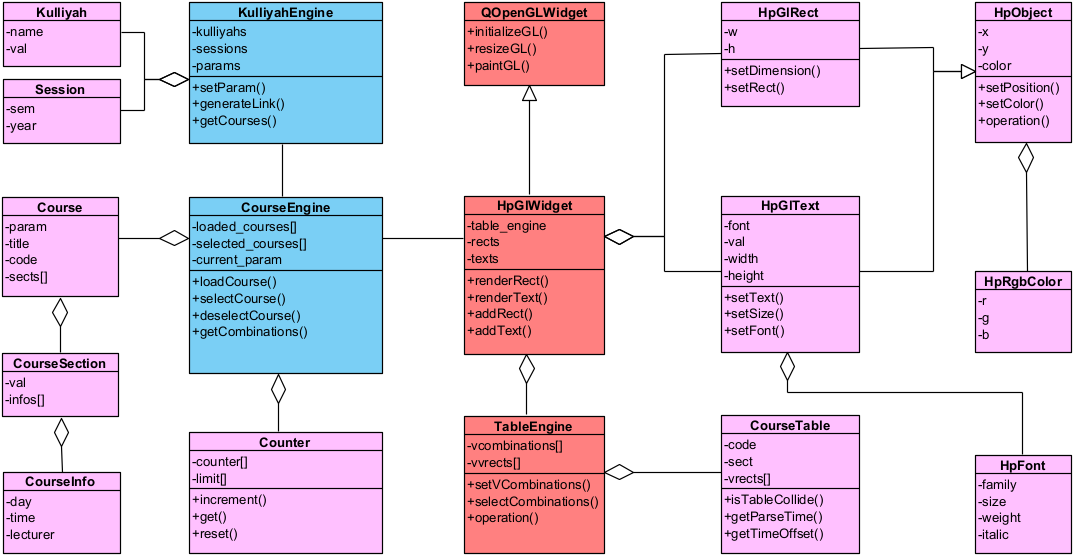
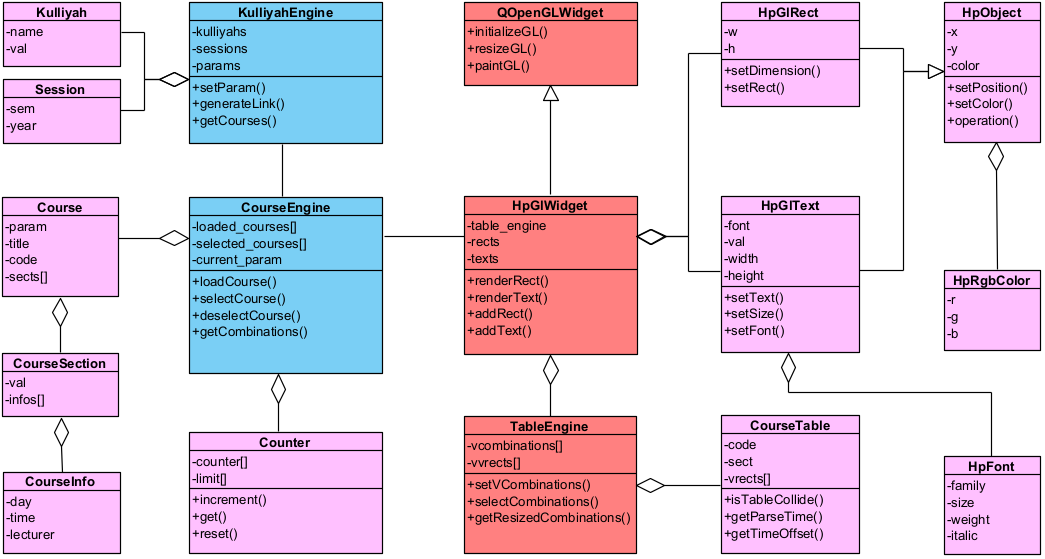
TableEngine minor adjustment (Experimental)
Changes:
- getResizedRect() -> getResizedCombinations()

To be added:
- Table formatting
- Color coded table elements
- Text display capability

diff --git a/Prereg_Engines/table_engine.py b/Prereg_Engines/table_engine.py
@@ -1,3 +1,5 @@
+import copy
+
 class TableEngine():
     def __init__(self):
         self.vcombinations = []
@@ -12,18 +14,18 @@ class TableEngine():
             for table in combinations:
                 n_rects = []
                 for rects in table.vrects:
-                    n_rects.extend(rects)
+                    n_rects.extend(copy.deepcopy(rects)) # same list, different reference
                 n_vrects.append(n_rects)
             self.vvrects.append(n_vrects)
 
-    def selectCombinations(self, index): # UNUSED
+    def selectCombinations(self, index):
         self.select_index = index
 
-    def getResizedRect(self, SCREEN_SIZE_X, SCREEN_SIZE_Y):
-        vrects = self.vvrects[self.select_index].copy()
+    def getResizedCombinations(self, SCREEN_SIZE_X, SCREEN_SIZE_Y):
+        n_vrects = self.vvrects[self.select_index]
         n_lower = n_upper = n_left = n_right = 0
 
-        for rects in vrects:
+        for rects in n_vrects:
             for rect in rects:
                 if n_lower == 0 and n_upper == 0 and n_left == 0 and n_right == 0:
                     n_lower = rect.y
@@ -40,46 +42,16 @@ class TableEngine():
         N_W = SCREEN_SIZE_X / (n_right - n_left + 1)  # day width constant
         N_H = SCREEN_SIZE_Y / (n_upper - n_lower)     # time height constant
 
-        for i in range(len(vrects)):
-            for j in range(len(vrects[i])):
-                vrects[i][j].x = vrects[i][j].x * N_W
-                vrects[i][j].y = (vrects[i][j].y - n_lower) * N_H
-                vrects[i][j].w = N_W
-                vrects[i][j].h = vrects[i][j].h * N_H
+        for i in range(len(self.vcombinations[self.select_index])):
+            for j in range(len(self.vcombinations[self.select_index][i].vrects)):
+                size_rects = len(self.vcombinations[self.select_index][i].vrects[j])
+                for k in range(size_rects):
+                    l = j * size_rects + k
+                    rect = self.vcombinations[self.select_index][i].vrects[j][k]
+                    
+                    rect.x = n_vrects[i][l].x * N_W
+                    rect.y = (n_vrects[i][l].y - n_lower) * N_H
+                    rect.w = N_W
+                    rect.h = n_vrects[i][l].h * N_H
 
-        return vrects
-        # for tbl_combinations in self.vcombinations:
-        #     # get bounds => dimension constants
-        #     n_lower = 0
-        #     n_upper = 0
-        #     n_left = 0
-        #     n_right = 0
-        #     for tbl_course in tbl_combinations:
-        #         for rects in tbl_course.vrects:
-        #             for rect in rects:
-        #                 if n_lower == 0 and n_upper == 0 and n_left == 0 and n_right == 0:
-        #                     n_lower = rect.y
-        #                     n_upper = rect.y + rect.h
-        #                     continue
-        #                 if rect.y < n_lower:
-        #                     n_lower = rect.y
-        #                 if rect.y + rect.h > n_upper:
-        #                     n_upper = rect.y + rect.h
-        #                 if rect.x < n_left:
-        #                     n_left = rect.x
-        #                 if rect.x > n_right:
-        #                     n_right = rect.x
-        #     N_W = SCREEN_SIZE_X / (n_right - n_left + 1)  # day width constant
-        #     N_H = SCREEN_SIZE_Y / (n_upper - n_lower)     # time height constant
-
-        #     for i in range(len(tbl_combinations)):
-        #         for j in range(len(tbl_combinations[i].vrects)):
-        #             for k in range(len(tbl_combinations[i].vrects[j])):
-        #                 n_x = tbl_combinations[i].vrects[j][k].x
-        #                 n_y = tbl_combinations[i].vrects[j][k].y
-        #                 n_h = tbl_combinations[i].vrects[j][k].h
-
-        #                 tbl_combinations[i].vrects[j][k].x = n_x * N_W
-        #                 tbl_combinations[i].vrects[j][k].y = n_y * N_H
-        #                 tbl_combinations[i].vrects[j][k].w = N_W
-        #                 tbl_combinations[i].vrects[j][k].h = n_h * N_H
+        return self.vcombinations[self.select_index]

diff --git a/main.py b/main.py
@@ -82,10 +82,11 @@ class Ui_MainWindow(object):
         table_engine = TableEngine()
         table_engine.setVCombinations(vcombinations)
         table_engine.selectCombinations(0)
-        vrects = table_engine.getResizedRect(345, 532)
-        for rects in vrects:
-            for rect in rects:
-                self.ogl_table.addRect(rect.x, rect.y, rect.w, rect.h, HpRgbColor(255, 0, 0))
+        combinations = table_engine.getResizedCombinations(345, 532)
+        for table in combinations:
+            for rects in table.vrects:
+                for rect in rects:
+                    self.ogl_table.addRect(rect.x, rect.y, rect.w, rect.h, HpRgbColor(255, 0, 0))
 
     def retranslateUi(self, MainWindow):
         _translate = QtCore.QCoreApplication.translate
